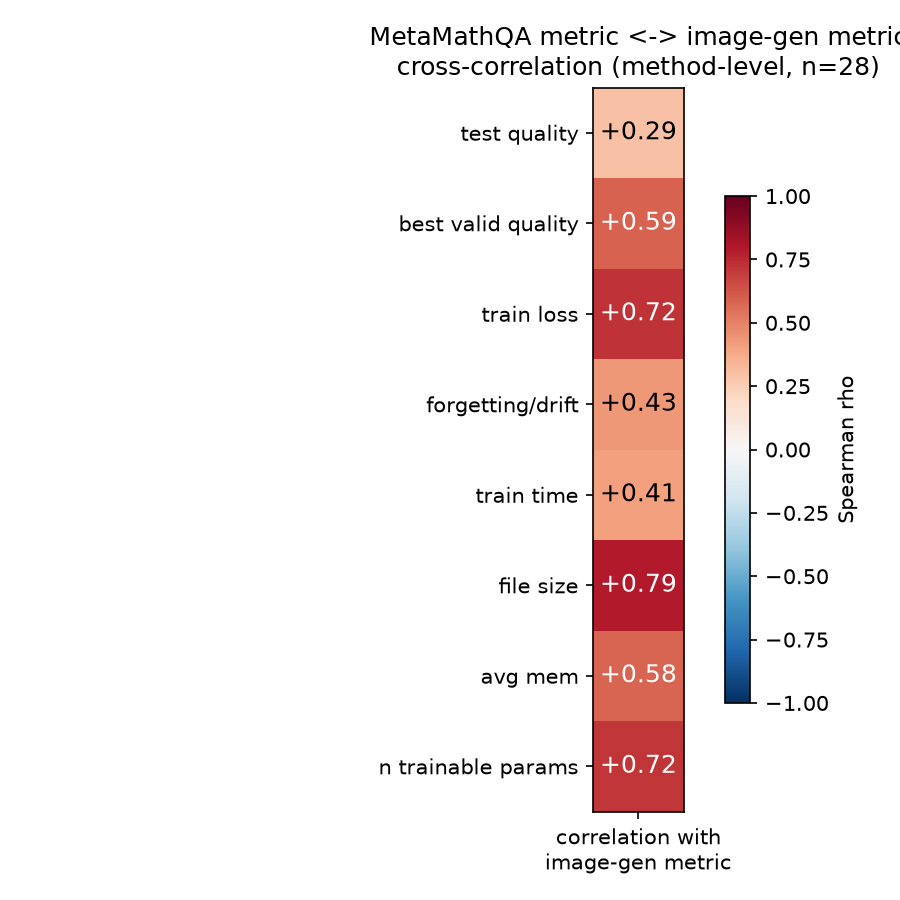
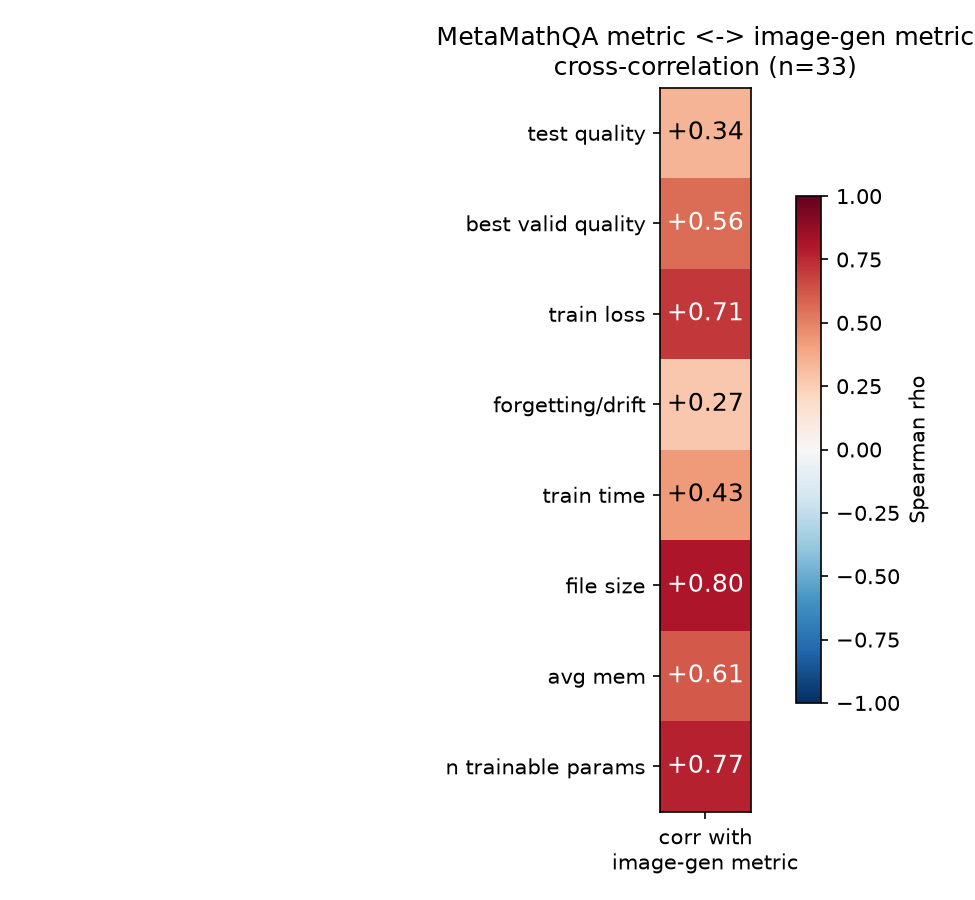
chore: update cross-benchmark analysis to full synced data + tradeoffs

Changed region(s): [[0.4044, 0.0311, 1.0, 0.9956], [0.8711, 0.7778, 0.9333, 0.8089]]

diff --git a/method_comparison/cross_benchmark_analysis/README.md b/method_comparison/cross_benchmark_analysis/README.md
@@ -1,45 +1,36 @@
 # Cross-benchmark correlation of PEFT method metrics
 
-This folder hosts artifacts backing the issue _"Do PEFT method metrics correlate across the GSM8K and image-gen benchmarks?"_
+Artifacts backing the (updated) issue *"Do PEFT method metrics correlate across the GSM8K and image-gen benchmarks?"*.
 
-## What these are
+**Data source:** freshly synced `upstream/main` of the repo — **33 methods** present in both
+benchmarks (72 MetaMathQA / 39 image-gen result files, all `status == "success"`), taken from
+the committed `results/` folders only (no temporary/local experiment outputs).
 
-- `fig_test_quality.png` — two panels: (left) raw test-quality correlation
-  (MetaMathQA/GSM8K test accuracy vs. image-gen test DINO similarity) across the 28
-  methods that appear in **both** benchmarks; (right) the same after controlling for the
-  parameter budget (residual of quality on `log10` trainable params).
+## Contents
+
+- `fig_test_quality.png` — raw test-quality correlation (GSM8K test acc vs image-gen test
+  DINO similarity) and the parameter-controlled (residual) version, n=33.
 - `fig_metric_heatmap.png` — Spearman cross-correlation between each MetaMathQA metric and
-  the analogous image-gen metric, at the method level (n=28).
-- `fig_rank_change.png` — each method's test-quality rank on GSM8K vs. image-gen, showing
-  how much the ranking reshuffles.
-- `method_table.csv` — per-method primary metric values and ranks on both benchmarks.
-- `corr_summary.md` — the full table of cross-benchmark Spearman correlations.
+  the analogous image-gen metric, method-level n=33.
+- `fig_rank_change.png` — each method's test-quality rank on GSM8K vs image-gen.
+- `fig_tradeoff_within.png` — within-benchmark tradeoffs: quality vs forgetting/drift and vs memory.
+- `fig_efficiency_transfer.png` — cross-benchmark "efficiency transfer": residual of quality
+  on log10(memory/params/time/size) for GSM8K (x) vs image-gen (y).
+- `method_table.csv` — per-method primary metrics and ranks on both benchmarks (33 methods).
+- `corr_summary.md` — cross-benchmark Spearman correlations (all n=33 and excl. 3 outliers).
+- `tradeoff_within.md` / `tradeoff_transfer.md` — the within-benchmark tradeoff correlations
+  and the cross-benchmark efficiency-transfer correlations.
 
-## Method used
+## Main findings
 
-- One representative ("default") run is chosen per method per benchmark. Method label comes
-  from `run_info.peft_config.peft_type` (same convention as the repo's own
-  `processing.py`), so e.g. DoRA runs filed under `lora/...-dora` are handled by config.
-- Only runs with `status == "success"` are used; duplicate runs are de-duplicated by recency.
-- Since parametrizations differ across methods **and** a given method is often trained at a
-  different parameter count on the two benchmarks (e.g. LoRA rank-32 = 9.2M params on the
-  text task but ~38M params on image-gen), the analysis reports **both** raw Spearman
-  correlations and, for the headline test-quality pair, a parameter-controlled version
-  (residuals after regressing quality on `log10` trainable params within each benchmark).
-- Robustness is checked over three subsets: all common methods; excluding the methods that
-  essentially fail on both (FourierFT, LN tuning, full fine-tuning); and a
-  comparable-budget subset (both benchmarks < 20M trainable params).
-
-## Headline results
-
-- **Test quality does NOT robustly transfer.** Raw ρ(GSM8K acc, DINO sim) = +0.29
-  (p = 0.13, n = 28); over the comparable-budget subset ρ ≈ 0. The apparent
-  parameter-controlled correlation (+0.52) is driven by a handful of methods that fail on
-  both tasks and disappears once those are excluded.
-- **Training dynamics DO transfer.** Training-loss correlation is strong and robust
-  (ρ ≈ 0.7, p < 0.001 across all subsets), and best-validation quality correlates
-  moderately (ρ ≈ 0.5). Methods that converge well on text also converge well on images.
-- Forgetting↔drift and the resource metrics correlate positively; the resource/efficiency
-  metrics (trainable params, checkpoint size, runtime, memory) correlate strongly because
-  each method is parametrized at a consistent scale across both benchmarks — a statement
-  about consistency of sizing, not of quality.
+- **Test quality does NOT robustly transfer**: ρ(GSM8K acc, DINO sim) = +0.34 (p=0.051, n=33);
+  among comparable-budget / non-outlier methods ρ ≈ 0.2 (ns).
+- **Training dynamics DO transfer**: training loss ρ ≈ 0.7 (p<0.001) and validation quality
+  ρ ≈ 0.5, robust across subsets.
+- **Accuracy↔forgetting tradeoff does NOT transfer** (ρ ≈ 0.17, ns), even though within GSM8K
+  higher accuracy is significantly associated with more forgetting (ρ=0.50).
+- **Resource efficiency transfers weakly-moderately** (memory/time/size/params efficiency
+  ρ ≈ 0.35–0.49 over n=33) but the significance is fragile — it drops once the methods that
+  fail on both tasks (FourierFT, LN tuning, full fine-tuning) are removed.
+- Within benchmarks, higher quality is bought with more trainable params / larger checkpoint
+  (significant on GSM8K) and more forgetting, but not clearly with more memory or train time.

diff --git a/method_comparison/cross_benchmark_analysis/corr_summary.md b/method_comparison/cross_benchmark_analysis/corr_summary.md
@@ -1,16 +1,9 @@
-Test quality (accuracy ↔ DINO sim)	+0.292	0.132	all
-Best valid quality	+0.591	<0.001	all
-Training loss	+0.724	<0.001	all
-Forgetting ↔ drift	+0.430	0.025	all
-Train time	+0.413	0.029	all
-Checkpoint size	+0.795	<0.001	all
-Avg reserved memory	+0.583	0.001	all
-Trainable params	+0.718	<0.001	all
-Test quality (accuracy ↔ DINO sim)	+0.132	0.530	no-outlier
-Best valid quality	+0.495	0.012	no-outlier
-Training loss	+0.678	<0.001	no-outlier
-Forgetting ↔ drift	+0.285	0.167	no-outlier
-Train time	+0.468	0.018	no-outlier
-Checkpoint size	+0.718	<0.001	no-outlier
-Avg reserved memory	+0.459	0.021	no-outlier
-Trainable params	+0.622	<0.001	no-outlier
+metric	all_rho	all_p	noout_rho	noout_p
+Test quality	+0.343	0.051	+0.229	0.224
+Best valid quality	+0.557	0.001	+0.474	0.008
+Training loss	+0.705	0.000	+0.656	0.000
+Forgetting/drift	+0.272	0.133	+0.127	0.505
+Train time	+0.427	0.013	+0.464	0.010
+Checkpoint size	+0.805	0.000	+0.751	0.000
+Avg mem	+0.611	0.000	+0.527	0.003
+N trainable params	+0.768	0.000	+0.715	0.000

diff --git a/method_comparison/cross_benchmark_analysis/tradeoff_within.md b/method_comparison/cross_benchmark_analysis/tradeoff_within.md
@@ -1,0 +1,6 @@
+cost	GSM8K_rho	GSM8K_p	image_rho	image_p
+forgetting/drift	+0.496	0.003	+0.312	0.083
+memory	+0.261	0.143	+0.140	0.437
+train time	+0.066	0.715	+0.214	0.231
+checkpoint size	+0.656	0.000	+0.283	0.111
+trainable params	+0.634	0.000	+0.352	0.045

diff --git a/method_comparison/cross_benchmark_analysis/tradeoff_transfer.md b/method_comparison/cross_benchmark_analysis/tradeoff_transfer.md
@@ -1,0 +1,6 @@
+cost	all_rho	all_p	noout_rho	noout_p
+forgetting/drift	+0.173	0.353	+0.117	0.539
+memory	+0.397	0.022	+0.225	0.232
+train time	+0.347	0.048	+0.234	0.214
+checkpoint size	+0.490	0.004	+0.321	0.084
+trainable params	+0.432	0.012	+0.244	0.194
